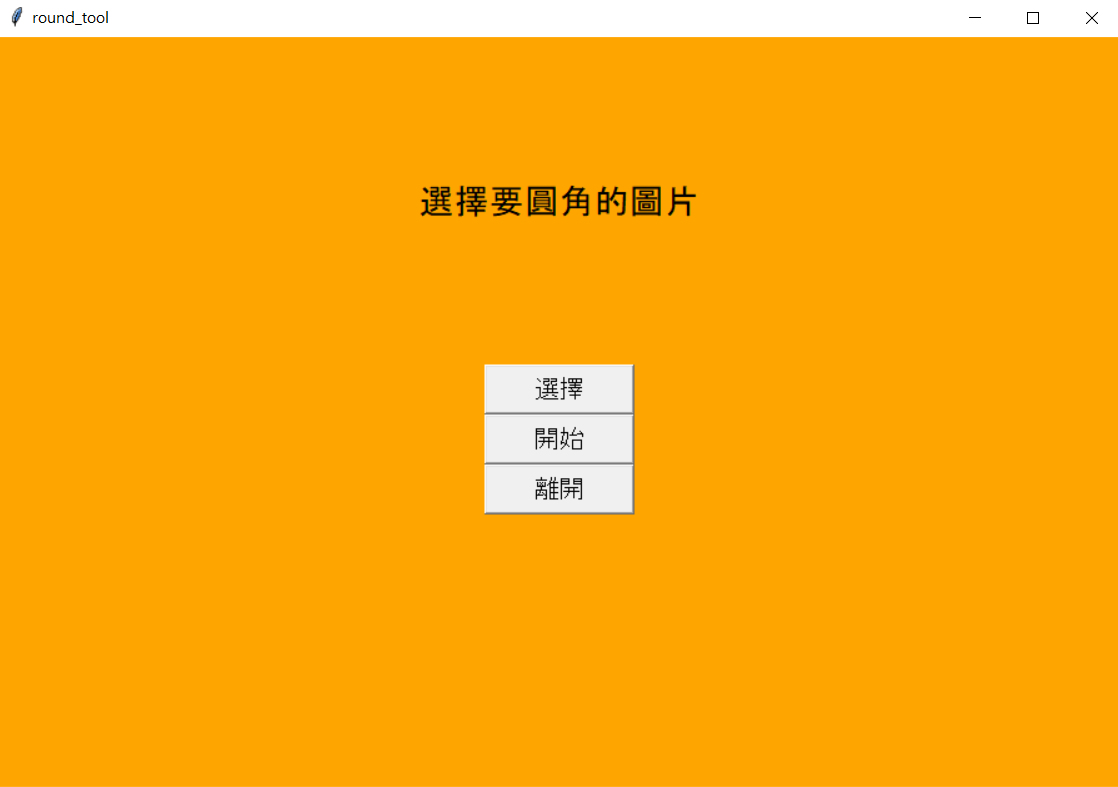
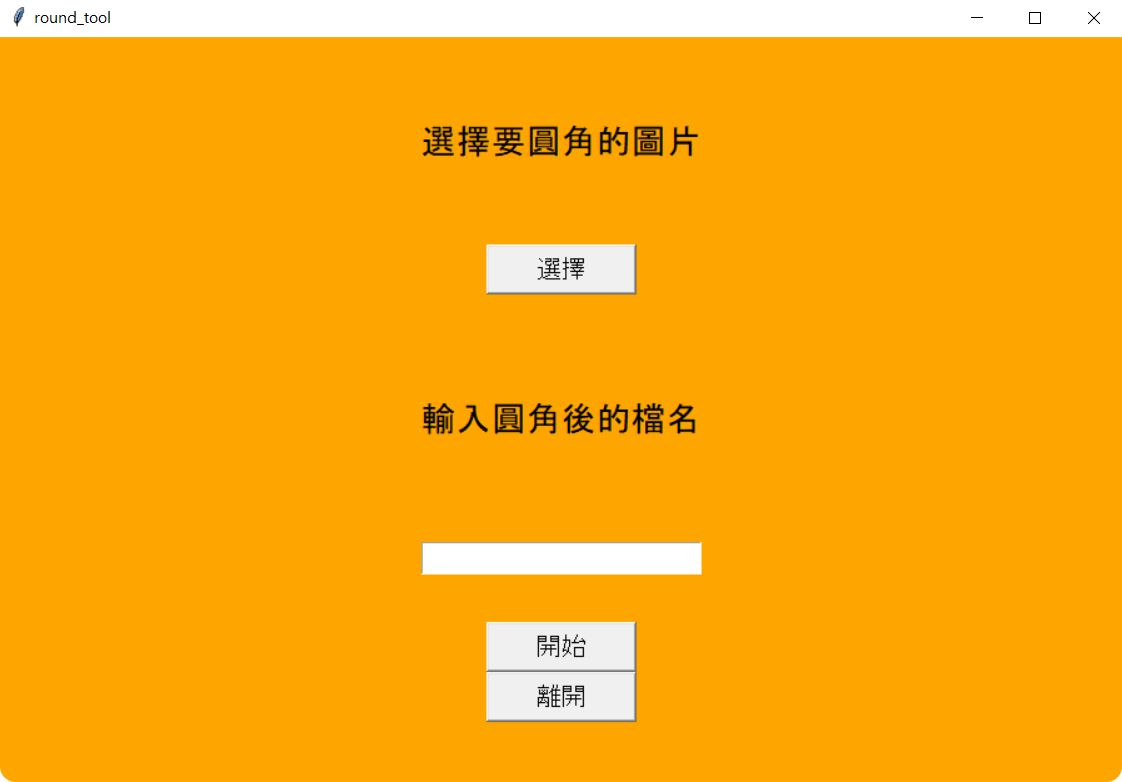
change pic

diff --git a/round_tool.py b/round_tool.py
@@ -14,15 +14,18 @@ def createFolder(directory):
     except OSError:
         print ('Error: Creating directory. ' +  directory)
 
+round_pic_name = ""
 COLOR = "orange"
 windows = tk.Tk()
 windows.config(bg=COLOR)
 
 windows.title("round_tool")
-windows.geometry("900x600")
+windows.geometry("900x600+300+70")
 
-select = tk.Label(windows, text = "選擇要圓角的圖片", bg=COLOR, font = ("arial", 20), heigh = 8)
-messagebox.showinfo("歡迎", "圓角結果路徑將與瀏覽器下載路徑相同\n\n處理過程約20秒\n\n(取決於您的網速度及電腦效能)")
+name_result = tk.Label(windows, text = "輸入圓角後的檔名", bg=COLOR, font = ("arial", 20), heigh = 6)
+select = tk.Label(windows, text = "選擇要圓角的圖片", bg=COLOR, font = ("arial", 20), heigh = 5)
+result = tk.Entry(windows, show=None, font=('Arial', 14))
+tab = tk.Label(windows, text = " ", bg=COLOR, font = ("arial", 20), heigh = 1)
 
 def quit(self):
     self.root.destroy()
@@ -41,9 +44,13 @@ def choose():
 
 SaveAs = ""
 def gogo():
+    global round_pic_name
     global SaveAs
     global filename
     global click
+    round_pic_name = result.get()
+    if round_pic_name == "":
+        round_pic_name = "noname"
     if click == 1:
         createFolder('./temp/')
         SaveDirectory = os.getcwd()
@@ -55,8 +62,11 @@ def gogo():
         browser.get("http://www.roundpic.com/")
         browser.find_element_by_name("file").send_keys(filename)
         browser.find_element_by_xpath("//button[text()='Round it!']").click()
+        result_name = browser.find_element_by_id("name")
+        result_name.clear()
+        result_name.send_keys(round_pic_name)
         browser.find_element_by_xpath('//input[@type="button"]').click()
-        time.sleep(10)
+        time.sleep(5)
         browser.close()
 
         messagebox.showinfo("完成", "已完成圓角")
@@ -73,6 +83,9 @@ leave = tk.Button(windows, text = '離開', font = ('Arial', 15), width = 10, he
 
 select.pack()
 pick.pack()
+name_result.pack()
+result.pack()
+tab.pack()
 action.pack()
 leave.pack()
 
